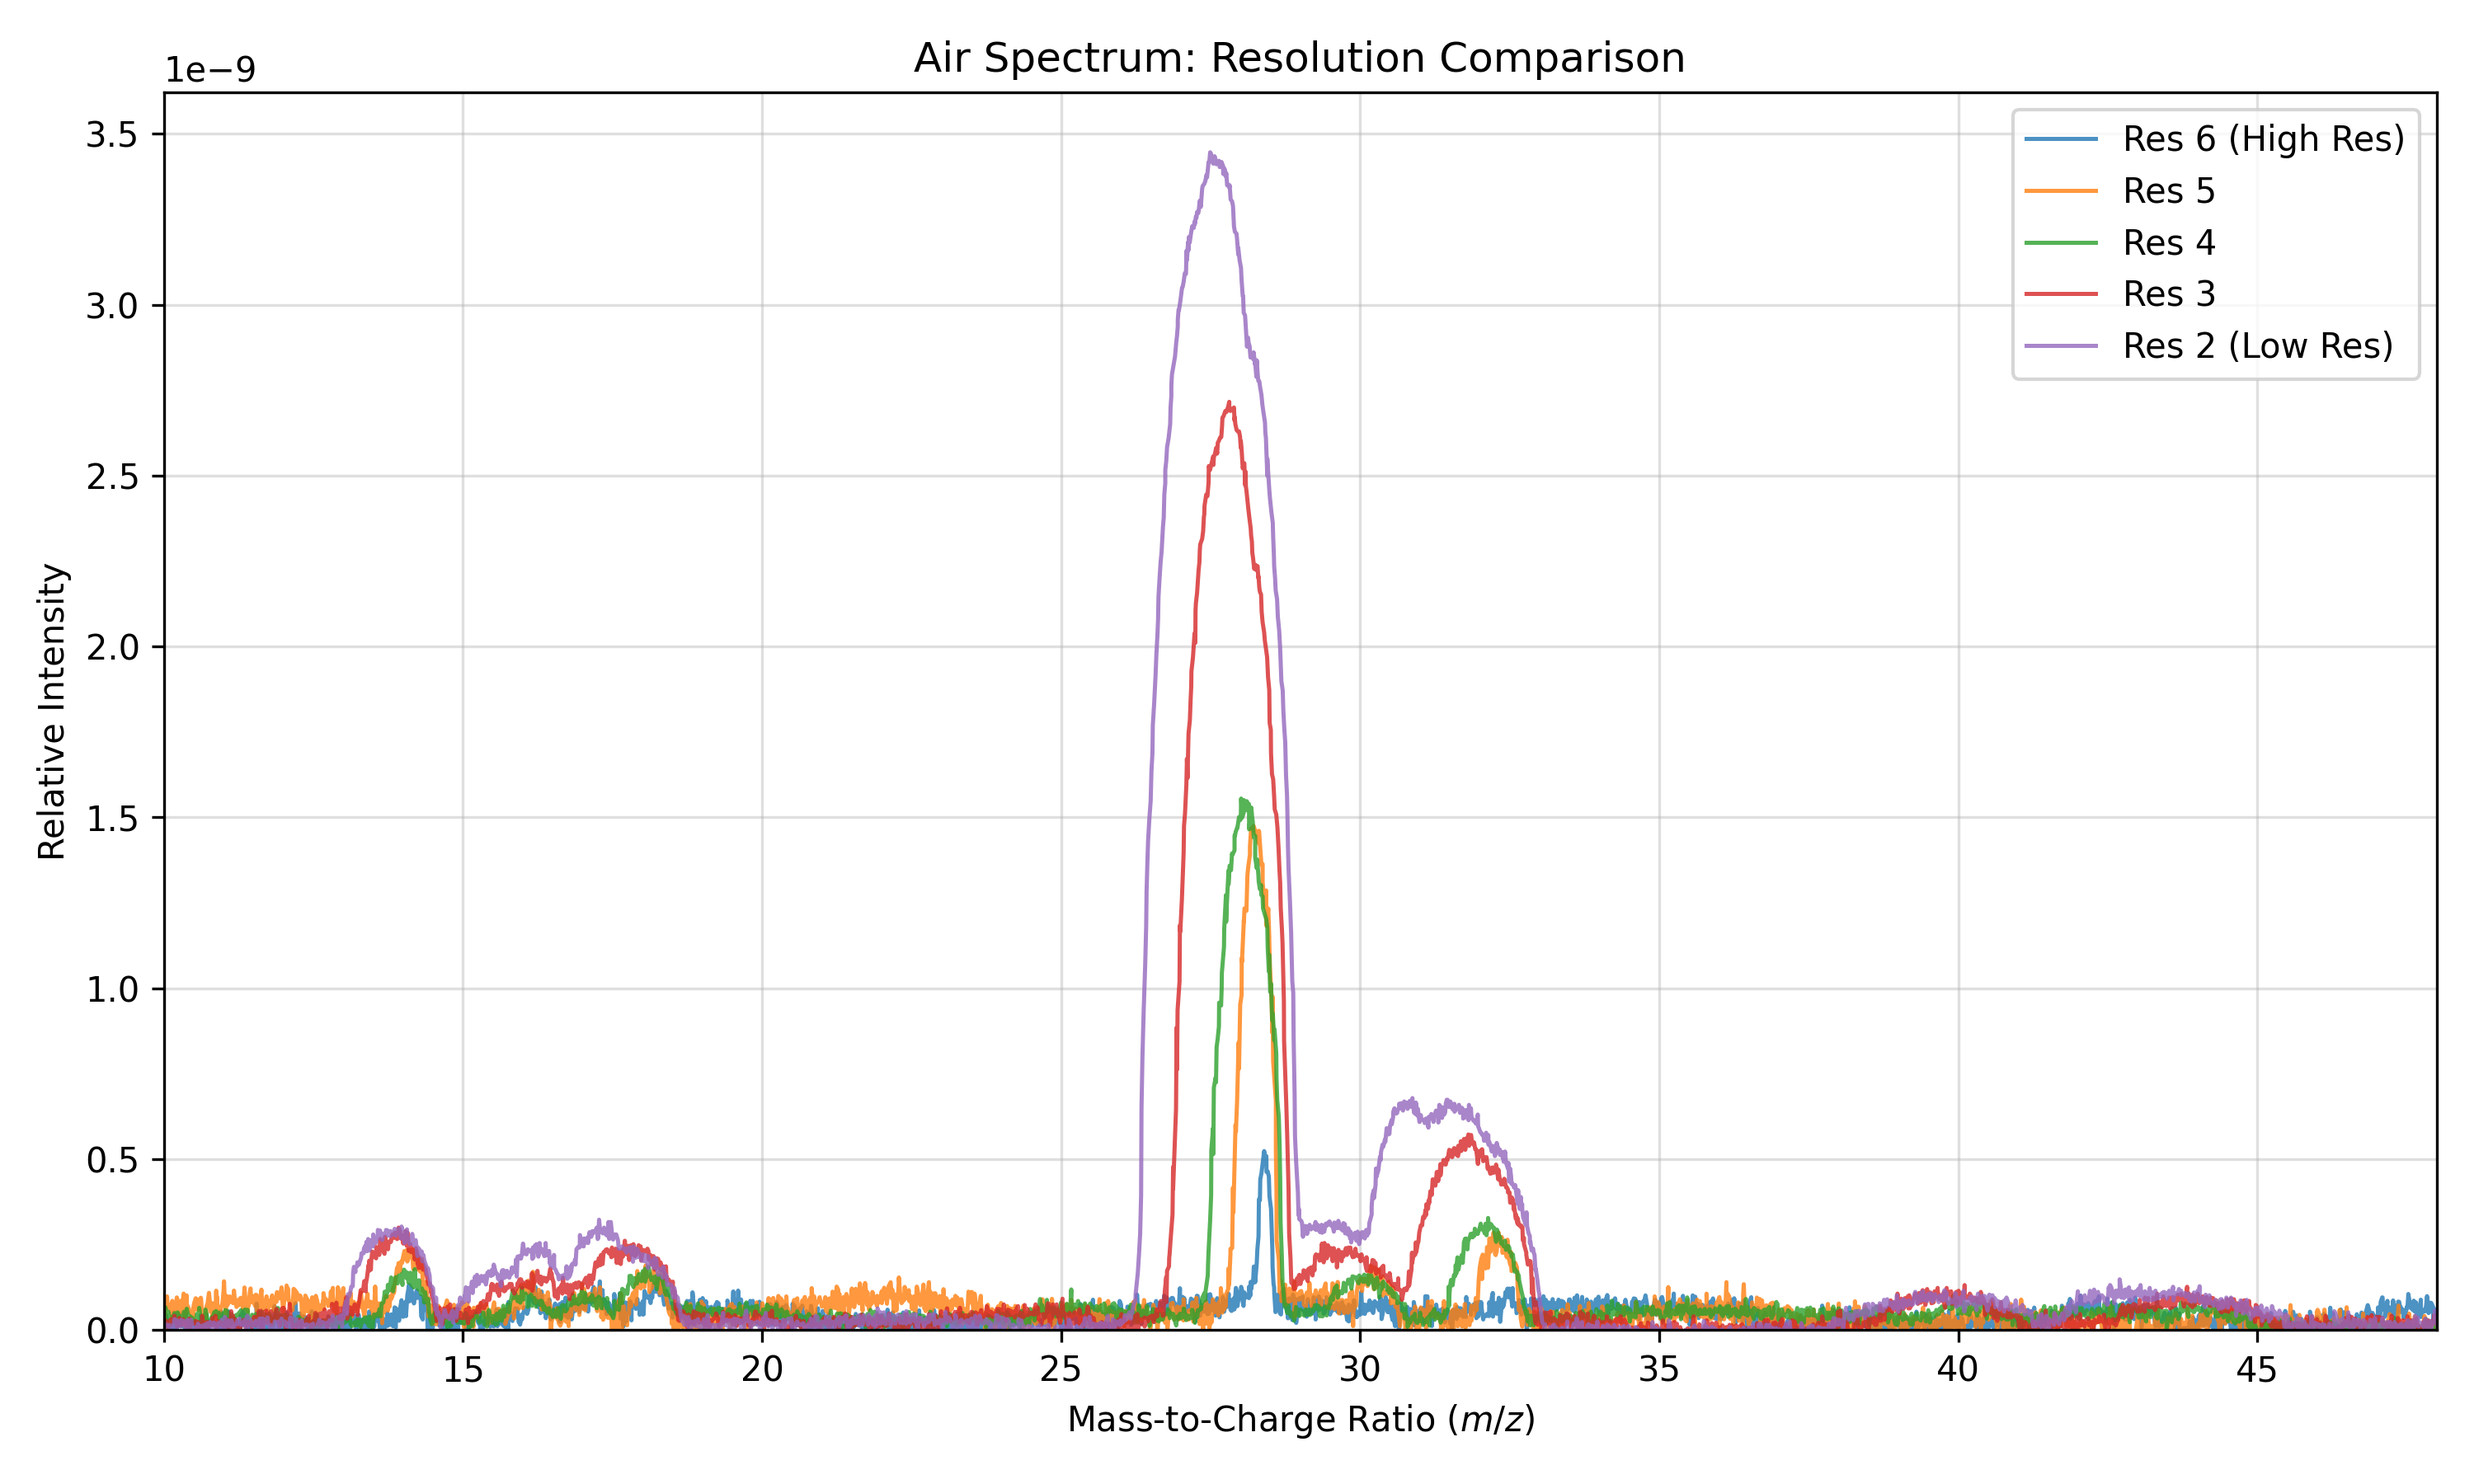
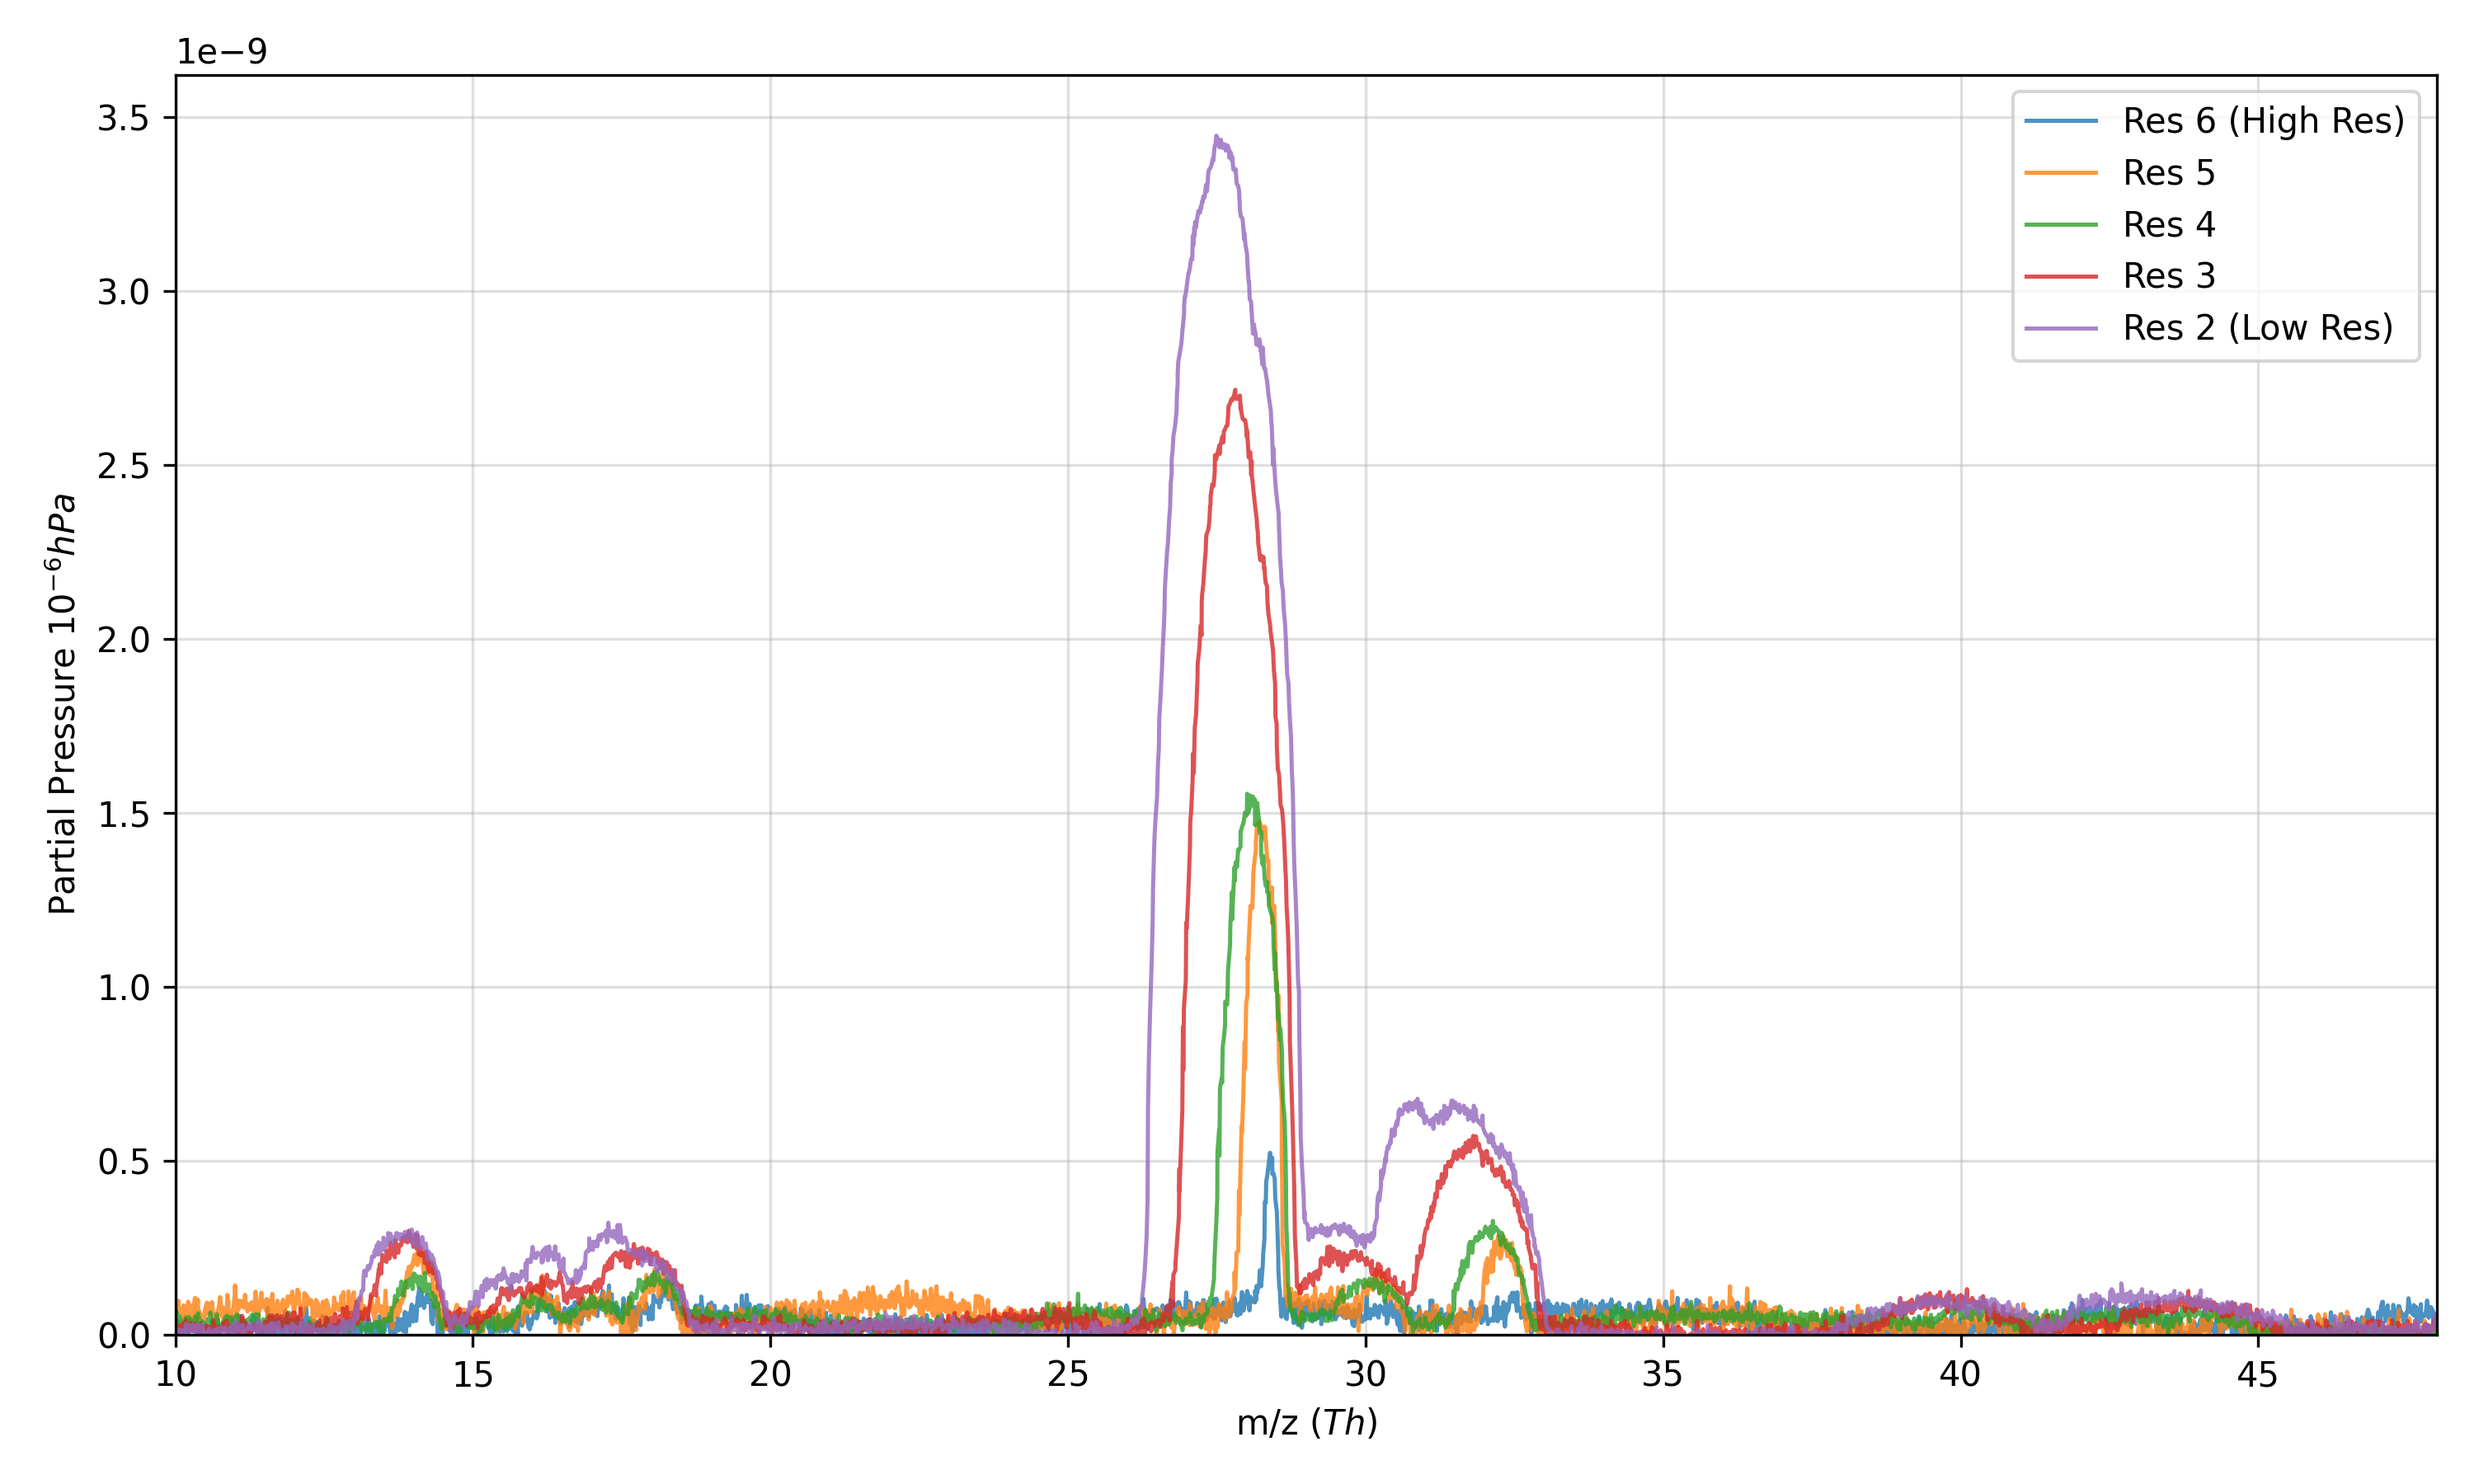
Task 5 Overlay added

diff --git a/Evaluation/Evaluation_QMS.tex b/Evaluation/Evaluation_QMS.tex
@@ -283,7 +283,7 @@ The parameters $(a,q)$ summarize how strongly the electric field acts on a given
 For fixed instrument settings $(U,V,\omega,r_0)$, they scale with the ratio $Q/m$, so that different $m/z$ values correspond to different points in the $(a,q)$ plane.
 Only in certain regions of this parameter plane do the Mathieu solutions stay bounded in both transverse directions, which physically means that the ion oscillations remain finite and transmission through the quadrupole is possible.
 
-\subsection{Stability Diagram and Mass Selection}
+\subsection{Stability Diagram and Mass Selection}\label{sec:working_line}
 
 The Mathieu equations in Eq.~\eqref{eq:mathieu_xy} admit either stable or unstable solutions depending on the parameters $(a,q)$.
 A trajectory is called stable if the transverse oscillations remain bounded, meaning that the ion stays within the free aperture between the rods over the full flight time.
@@ -602,9 +602,32 @@ Figure~\ref{fig:air} contains the air spectrum in the range of 10 to 50$Th$, wit
 \end{figure}
 
 \subsection{Resolution Analysis}
+\subsubsection{Introduction}
+As discussed previously in Section~\ref{sec:working_line}, the working line always intersects the edge of the stability region at the same boundary points $(a_1,b_1)$ and $(a_2,b_2)$, with $b_0/\Delta b=const$. The value $b_0=0.706$ is derived from the solutions to the Mathieu Equations.
+
+Since $m(b)=\frac{2QV}{r_0^2\omega^2b}$, then
+\begin{equation}
+  \frac{m(b_0)}{\Delta m}=\frac{1/b_0}{1/b_2-1/b_1}=R=const
+\end{equation}
+
+It is also important to consider the $U/V$ ratio limit of
+
+\begin{equation}
+  \frac{U}{V}<0.1678
+\end{equation}
+
+Since $R$ remains constant, changing the $U/V$ ratio allows the user to set a specific resolution that remains consistent across the entire mass spectrum.
+
+\subsubsection{Comparison of Resolution Spectrum}
+The mass-to-charge spectrum of air was analyzed using five different resolution settings. An overlay of the five spectrums is shown in Figure~\ref{fig:resolution}
+
+\begin{figure}[htbp]
+  \centering
+  \includegraphics[width=0.9\linewidth]{../resources/task_5_5_resolution_overlay.png}
+  \caption{Comparison of the air mass-to-charge spectrumfor differnet resolution values.}\label{fig:resolution}
+\end{figure}
 
 \begin{itemize}
-  \item Overlay the air spectra for resolution settings VAR = 6 $\rightarrow$ 2 and discuss the qualitative trade-off (peak narrowing vs signal loss)
   \item For selected peaks, determine the FWHM $\Delta m$ and compile a table of $(m,\Delta m)$
   \item Plot $m$ versus $\Delta m$ as requested and extract/compare resolving power trends
 \end{itemize}

diff --git a/resources/task_5_5.py b/resources/task_5_5.py
@@ -36,10 +36,8 @@ def run_resolution_overlay():
         plt.plot(m, i_normalized, label=label, lw=1.2, alpha=0.8)
 
     # Formatting
-    plt.title('Air Spectrum: Resolution Comparison')
-    plt.xlabel('Mass-to-Charge Ratio ($m/z$)')
-    plt.ylabel('Relative Intensity')
-    
+    plt.xlabel('m/z ($Th$)')
+    plt.ylabel('Partial Pressure $10^{-6}hPa$')
     plt.xlim(10,48)
     plt.ylim(0)
     plt.legend()
